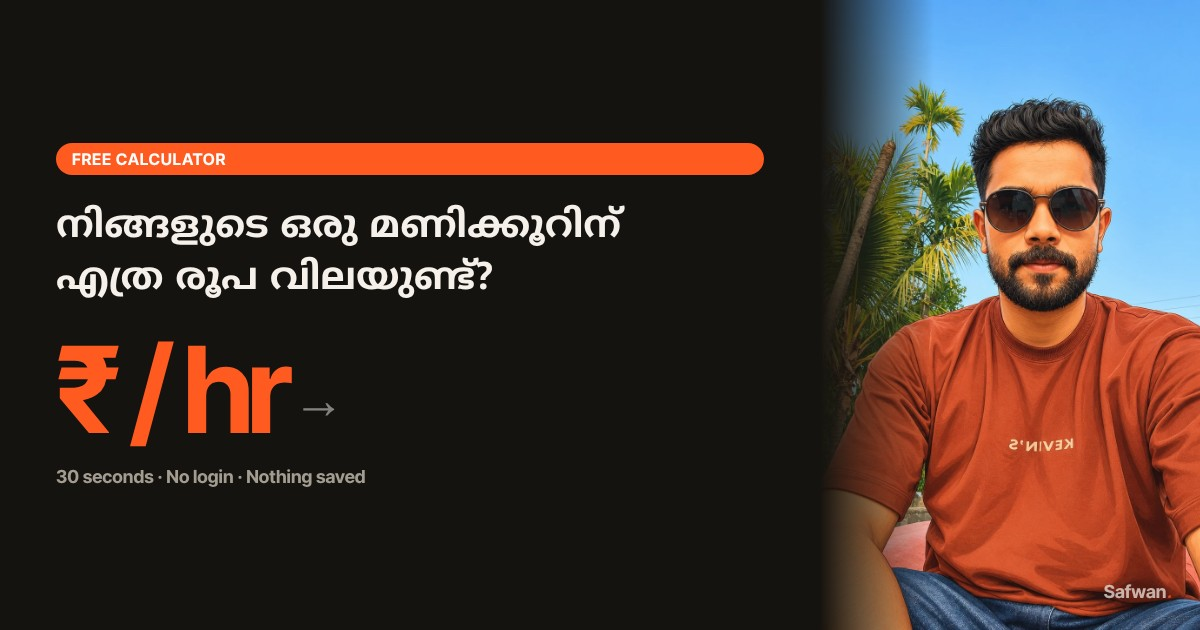
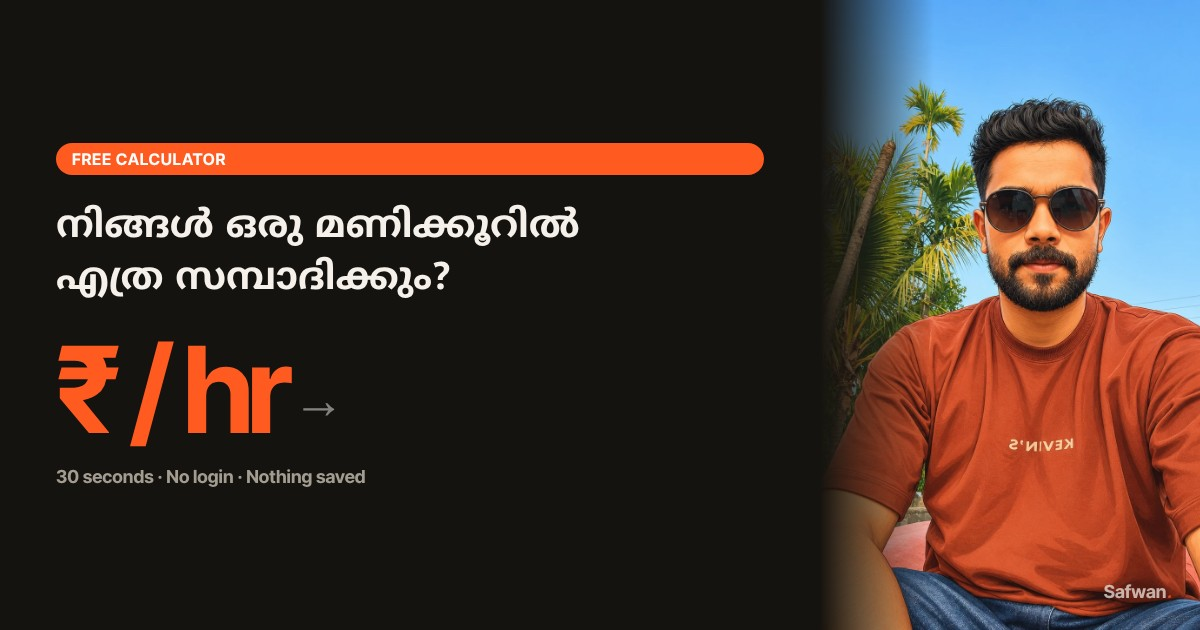
Replace വില (price) with വരുമാനം (income) across calculator
Headline: നിങ്ങൾ ഒരു മണിക്കൂറിൽ എത്ര സമ്പാദിക്കും?
Result label: നിങ്ങളുടെ മണിക്കൂർ വരുമാനം
Share message: എന്റെ ഒരു മണിക്കൂർ വരുമാനം

Removes "വില" (price/value) which had awkward cultural
connotations in Malayalam. Also updates real-hourly label,
OG image, resources listing and llms.txt to match.

Claude-Session: https://claude.ai/code/session_01KBX91dDsxweqMNuynLcwru

Changed region(s): [[0.1233, 0.3317, 0.5242, 0.4825]]

diff --git a/resources/index.html b/resources/index.html
@@ -25,7 +25,7 @@
 <link rel="stylesheet" href="/assets/style.css?v=22">
 <script src="/assets/theme.js?v=1"></script>
 <script type="application/ld+json">
-{"@context": "https://schema.org", "@graph": [{"@type": "CollectionPage", "@id": "https://safwandigital.com/resources/#page", "url": "https://safwandigital.com/resources/", "name": "Free resources by Mohammed Safwan", "description": "Free tools, Claude skills and templates for marketers and creators, shared by Mohammed Safwan.", "inLanguage": "en-IN", "author": {"@id": "https://safwandigital.com/#person"}, "isPartOf": {"@id": "https://safwandigital.com/#website"}, "mainEntity": {"@type": "ItemList", "itemListElement": [{"@type": "ListItem", "position": 1, "url": "https://safwandigital.com/resources/hourly-value-calculator/", "name": "Hourly rate calculator — know your hourly value"}, {"@type": "ListItem", "position": 2, "url": "https://safwandigital.com/resources/google-tag-manager/", "name": "Google Tag Manager setup guides for beginners"}, {"@type": "ListItem", "position": 3, "url": "https://safwandigital.com/resources/free-digital-marketing-tools/", "name": "15 free digital marketing tools"}, {"@type": "ListItem", "position": 4, "url": "https://safwandigital.com/resources/free-digital-marketing-courses/", "name": "5 free digital marketing courses"}, {"@type": "ListItem", "position": 5, "url": "https://safwandigital.com/resources/faceless-3d-reel/", "name": "Make faceless 3D reels with AI: free Claude skill"}, {"@type": "ListItem", "position": 6, "url": "https://safwandigital.com/resources/meta-creator-hub-guide/", "name": "Meta Creator Marketing Hub: free step-by-step guide"}, {"@type": "ListItem", "position": 7, "url": "https://safwandigital.com/resources/claude-reel-skill/", "name": "Free Claude skill for editing Reels"}]}, "breadcrumb": {"@type": "BreadcrumbList", "itemListElement": [{"@type": "ListItem", "position": 1, "name": "Home", "item": "https://safwandigital.com/"}, {"@type": "ListItem", "position": 2, "name": "Resources", "item": "https://safwandigital.com/resources/"}]}}]}
+{"@context": "https://schema.org", "@graph": [{"@type": "CollectionPage", "@id": "https://safwandigital.com/resources/#page", "url": "https://safwandigital.com/resources/", "name": "Free resources by Mohammed Safwan", "description": "Free tools, Claude skills and templates for marketers and creators, shared by Mohammed Safwan.", "inLanguage": "en-IN", "author": {"@id": "https://safwandigital.com/#person"}, "isPartOf": {"@id": "https://safwandigital.com/#website"}, "mainEntity": {"@type": "ItemList", "itemListElement": [{"@type": "ListItem", "position": 1, "url": "https://safwandigital.com/resources/hourly-value-calculator/", "name": "Hourly salary calculator — what do you earn per hour?"}, {"@type": "ListItem", "position": 2, "url": "https://safwandigital.com/resources/google-tag-manager/", "name": "Google Tag Manager setup guides for beginners"}, {"@type": "ListItem", "position": 3, "url": "https://safwandigital.com/resources/free-digital-marketing-tools/", "name": "15 free digital marketing tools"}, {"@type": "ListItem", "position": 4, "url": "https://safwandigital.com/resources/free-digital-marketing-courses/", "name": "5 free digital marketing courses"}, {"@type": "ListItem", "position": 5, "url": "https://safwandigital.com/resources/faceless-3d-reel/", "name": "Make faceless 3D reels with AI: free Claude skill"}, {"@type": "ListItem", "position": 6, "url": "https://safwandigital.com/resources/meta-creator-hub-guide/", "name": "Meta Creator Marketing Hub: free step-by-step guide"}, {"@type": "ListItem", "position": 7, "url": "https://safwandigital.com/resources/claude-reel-skill/", "name": "Free Claude skill for editing Reels"}]}, "breadcrumb": {"@type": "BreadcrumbList", "itemListElement": [{"@type": "ListItem", "position": 1, "name": "Home", "item": "https://safwandigital.com/"}, {"@type": "ListItem", "position": 2, "name": "Resources", "item": "https://safwandigital.com/resources/"}]}}]}
 </script>
 </head>
 <body>
@@ -58,7 +58,7 @@
   <div class="wrap">
     <!-- RESOURCES: newest first. Each new resource gets a card here. -->
     <div class="posts" id="resources">
-      <a href="/resources/hourly-value-calculator/" class="post"><div class="cover"><img src="/resources/hourly-value-calculator/og-hourly.jpg" alt="Free hourly rate calculator" width="600" height="450" loading="lazy"></div><span class="meta">Free calculator · Malayalam</span><h3>Know your hourly value</h3><p>Enter your salary and instantly see what one hour of your work is worth, with fun comparisons. Nothing saved.</p></a>
+      <a href="/resources/hourly-value-calculator/" class="post"><div class="cover"><img src="/resources/hourly-value-calculator/og-hourly.jpg" alt="Free hourly rate calculator" width="600" height="450" loading="lazy"></div><span class="meta">Free calculator · Malayalam</span><h3>What do you earn per hour?</h3><p>Enter your salary and instantly see your hourly income, with fun comparisons. Nothing saved.</p></a>
       <a href="/resources/google-tag-manager/" class="post"><div class="cover"><img src="/resources/google-tag-manager/thumb.webp" alt="Google Tag Manager setup guides for beginners" width="600" height="450" loading="lazy"></div><span class="meta">Step-by-step guides · Free</span><h3>Google Tag Manager for beginners</h3><p>Four guides: set up GTM, connect GA4, track Google Ads conversions and install Meta Pixel. Step by step.</p></a>
       <a href="/resources/free-digital-marketing-tools/" class="post"><div class="cover"><img src="/resources/free-digital-marketing-tools/thumb.webp" alt="15 free digital marketing tools for SEO, ads and analytics" width="600" height="450" loading="lazy"></div><span class="meta">Free tools · For marketers</span><h3>15 free digital marketing tools</h3><p>For SEO, ads research and analytics. What each tool does, its free limits and the official link.</p></a>
       <a href="/resources/free-digital-marketing-courses/" class="post"><div class="cover"><img src="/resources/free-digital-marketing-courses/thumb.webp" alt="5 free digital marketing courses" width="600" height="450" loading="lazy"></div><span class="meta">Free courses · For beginners</span><h3>5 free digital marketing courses</h3><p>From Google, HubSpot, Semrush and Meta. What you learn in each, who it is for and the direct links.</p></a>

diff --git a/resources/hourly-value-calculator/index.html b/resources/hourly-value-calculator/index.html
@@ -50,7 +50,7 @@
 
 <section class="hv-hero">
   <div class="wrap">
-    <h1 class="hv-title">നിങ്ങളുടെ ഒരു മണിക്കൂർ ജോലിക്ക് എത്ര രൂപ <em>കിട്ടും?</em></h1>
+    <h1 class="hv-title">നിങ്ങൾ ഒരു മണിക്കൂറിൽ എത്ര <em>സമ്പാദിക്കും?</em></h1>
     <p class="hv-sub">30 സെക്കൻഡിൽ calculate ചെയ്യാം. നിങ്ങൾ type ചെയ്യുന്നതൊന്നും save ചെയ്യുന്നില്ല <span class="lock-icon">🔒</span></p>
   </div>
 </section>
@@ -136,14 +136,14 @@
 
       <!-- Big hourly value -->
       <div class="hv-result-card hv-main-result">
-        <p class="hv-result-label">നിങ്ങളുടെ ഒരു മണിക്കൂർ ജോലിയുടെ വില</p>
+        <p class="hv-result-label">നിങ്ങളുടെ മണിക്കൂർ വരുമാനം</p>
         <p class="hv-big-number" id="hourly-value">₹0</p>
         <p class="hv-per-min" id="per-minute"></p>
       </div>
 
       <!-- Real hourly (only if travel > 0) -->
       <div class="hv-result-card hv-real-card" id="real-hourly-card" hidden>
-        <p class="hv-result-label">യാത്ര സമയം കൂടി കൂട്ടിയാൽ, നിങ്ങളുടെ യഥാർത്ഥ hourly value</p>
+        <p class="hv-result-label">യാത്ര സമയം കൂടി കൂട്ടിയാൽ, നിങ്ങളുടെ യഥാർത്ഥ മണിക്കൂർ വരുമാനം</p>
         <p class="hv-real-number" id="real-hourly-value">₹0</p>
       </div>
 

diff --git a/resources/hourly-value-calculator/calculator.js b/resources/hourly-value-calculator/calculator.js
@@ -298,7 +298,7 @@ var PAGE_URL = 'https://safwandigital.com/resources/hourly-value-calculator/';
 
   function getShareMessage() {
     var val = hourlyEl.textContent;
-    return 'എന്റെ ഒരു മണിക്കൂറിന്റെ വില ' + val + ' ആണ് 😅 നിങ്ങളുടേത് എത്രയാണെന്ന് നോക്ക് 👉 ' + PAGE_URL;
+    return 'എന്റെ ഒരു മണിക്കൂർ വരുമാനം ' + val + ' ആണ് 😅 നിങ്ങളുടേത് എത്രയാണെന്ന് നോക്ക് 👉 ' + PAGE_URL;
   }
 
   $('share-whatsapp').addEventListener('click', function () {
